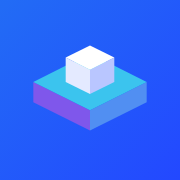
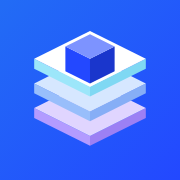
Новый фавикон: три плиты и кубик на плитке sky-ink с отдельными сетками 16, 32 и 48 px

Changed region(s): [[0.1667, 0.1667, 0.8333, 0.8056]]

diff --git a/brand/BRAND.md b/brand/BRAND.md
@@ -23,11 +23,13 @@
 | `wordmark/unbounded.svg`, `wordmark/unbounded-white.svg` | надпись отдельно |
 | `logos.html` | все варианты знаков и шрифтов для сравнения |
 
-| `favicon/favicon.svg` | упрощённый знак для 16–48 px: одна плита (верх #3BC4EE, грани #7F57EB и #518FF2) и кубик #2348FF, прозрачный фон; он же `docs/brand/symbol.svg` |
-| `favicon/favicon-16.png`, `-32.png`, `-48.png` | растровые фавиконы |
-| `favicon/icon-tile.svg`, `apple-touch-icon.png` | плитка 180 px на градиенте sky-ink, кубик белый |
-| `favicon/icon-rounded.svg`, `icon-192.png`, `icon-512.png` | PWA-иконки, радиус = высота / 3 |
-| `favicon/maskable.svg`, `maskable-512.png` | maskable, знак внутри безопасной зоны 80 % |
+| `favicon/favicon.svg` | фавикон, сетка 32 px: скруглённая плитка (радиус 30 %) на градиенте sky-ink #226CF5 → #2348FF, на ней три плиты светлыми оттенками raw, core, mart (верхняя белая) и кубик #2348FF; он же `frontend/public/favicon.svg` |
+| `favicon/favicon-16.svg` | тот же знак, перерисованный под сетку 16 px (плиты толщиной 1 px, радиус 4 px), исходник для `favicon-16.png` |
+| `favicon/favicon-16.png`, `-32.png`, `-48.png` | растровые фавиконы; из них Pillow собирает `frontend/public/favicon.ico` (16, 32, 48) |
+| `favicon/options.png` | сравнение вариантов A–D на 16/32/48 px и в увеличении ×8, на светлой и тёмной вкладке; выбран A |
+| `favicon/apple-touch-icon.svg`, `apple-touch-icon.png` | 180 px, квадрат без скругления (iOS скругляет сам), знак занимает 62 % |
+| `favicon/icon.svg`, `icon-192.png`, `icon-512.png` | PWA-иконки, радиус 30 %, знак 66 % |
+| `favicon/maskable.svg`, `maskable-512.png` | maskable, фон в край, знак 50 % внутри безопасной зоны 80 % |
 | `og/og.svg`, `og/og.png` | соцкарточка 1200 × 630 в стиле обложки; в SVG шрифт Inter встроен base64, эталон для сетей это PNG |
 | `animation/logo-animated.svg` | анимация локапа на CSS @keyframes, 1,55 с, без JS |
 | `animation/preview.html` | просмотр анимации крупно с кнопкой повтора |
@@ -39,7 +41,7 @@ PNG собраны headless Chromium из SVG-исходников.
 ## Правила использования
 
 - **Охранное поле:** со всех сторон не меньше высоты кубика (в знаке 64 × 64 это 15 единиц, около 23 % высоты знака).
-- **Минимальные размеры:** знак «Слои» 24 px, локап 120 px по ширине. Меньше 24 px только `favicon/favicon.svg`.
+- **Минимальные размеры:** знак «Слои» 24 px, локап 120 px по ширине. Меньше 24 px только `favicon/favicon.svg` и `favicon-16.svg`, перерисованные под пиксельную сетку.
 - **Фон:** цветной знак на белом и светлом; на градиенте обложки и тёмном только белая версия.
 - **Анимация:** только `animation/logo-animated.svg`, один раз при загрузке; без зацикливания.
 
@@ -56,8 +58,8 @@ PNG собраны headless Chromium из SVG-исходников.
 
 1. [ ] Проверить глазами монохром и белый варианты «Слоёв» после перехода на маску с зазорами
    (32 и 16 px, печать одной краской).
-2. [x] Фавикон: упрощённый знак (одна плита и кубик), `favicon.svg`, PNG 16/32/48, apple-touch-icon,
-   icon-192/512, maskable, og-картинка. `.ico` собирает фронт (`npm run brand:assets`) из `docs/brand/symbol.svg`.
+2. [x] Фавикон: три плиты и кубик на плитке sky-ink, отдельные сетки 16, 32 и 48 px, `favicon.svg`, PNG 16/32/48,
+   `.ico`, apple-touch-icon, icon-192/512, maskable, og-картинка.
 3. [x] Охранное поле и минимальные размеры описаны выше. [ ] Вертикальный вариант локапа для квадратных мест.
 4. [ ] Переписать `NAMING.md` под Datum (сейчас там Tally) и удалить отклонённые варианты из `logo/`.
 5. [ ] Подключить логотип и фавиконы в `design/design-system.html` и во фронт (шаги в
